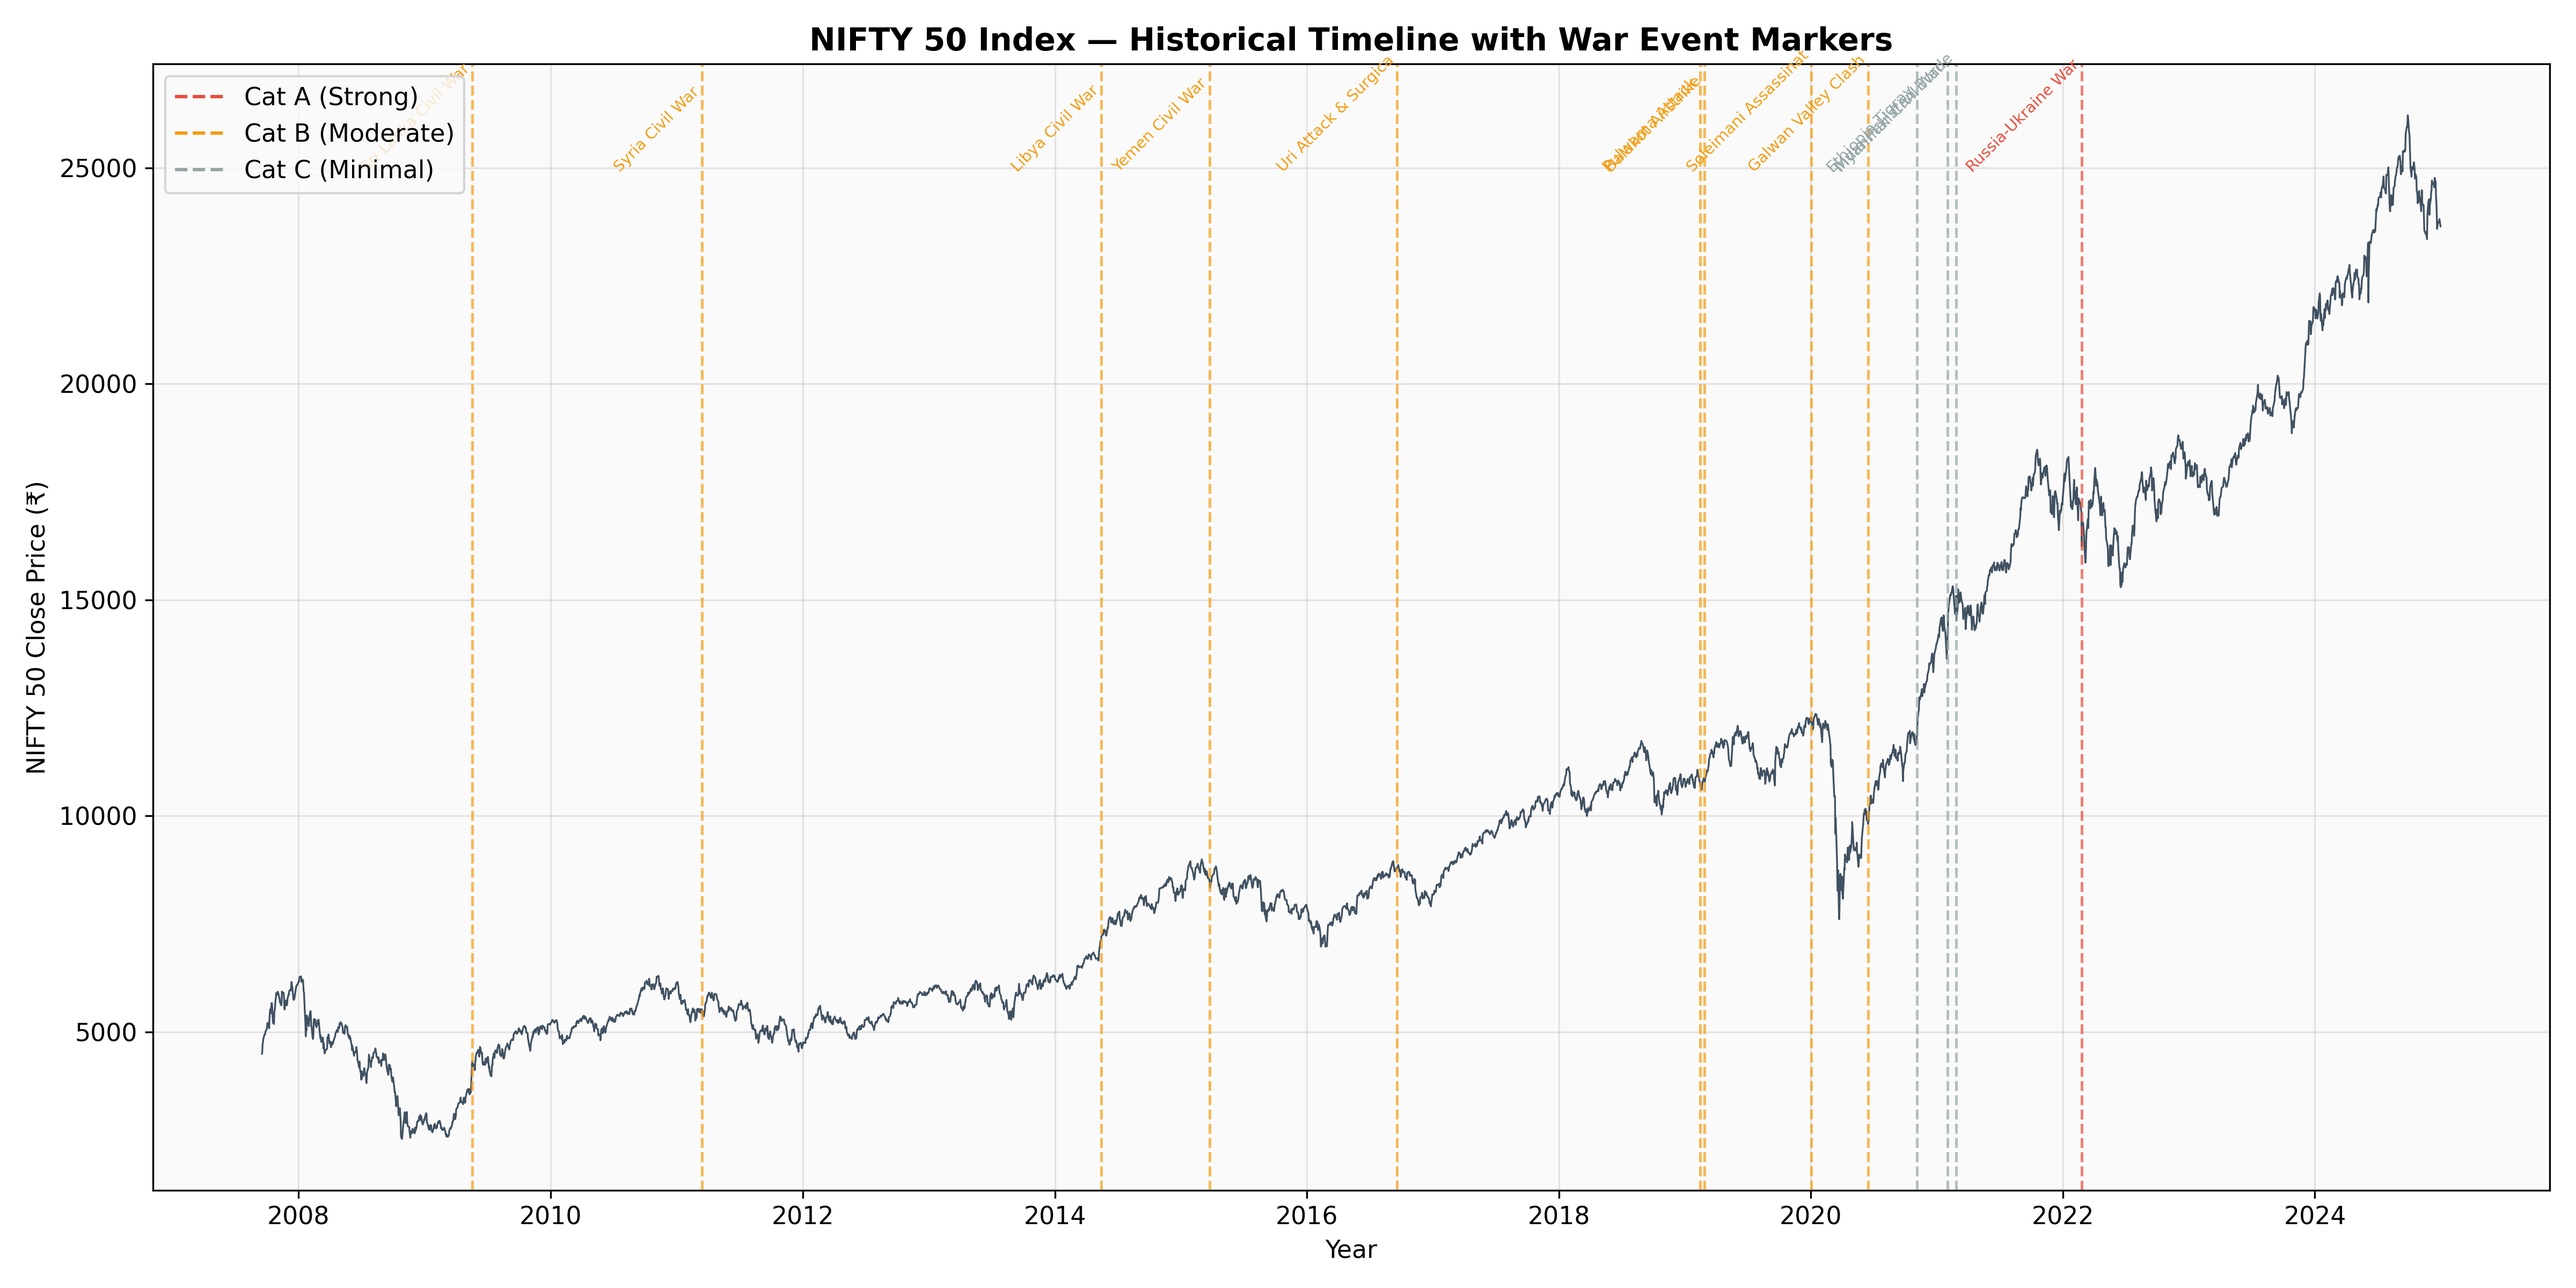
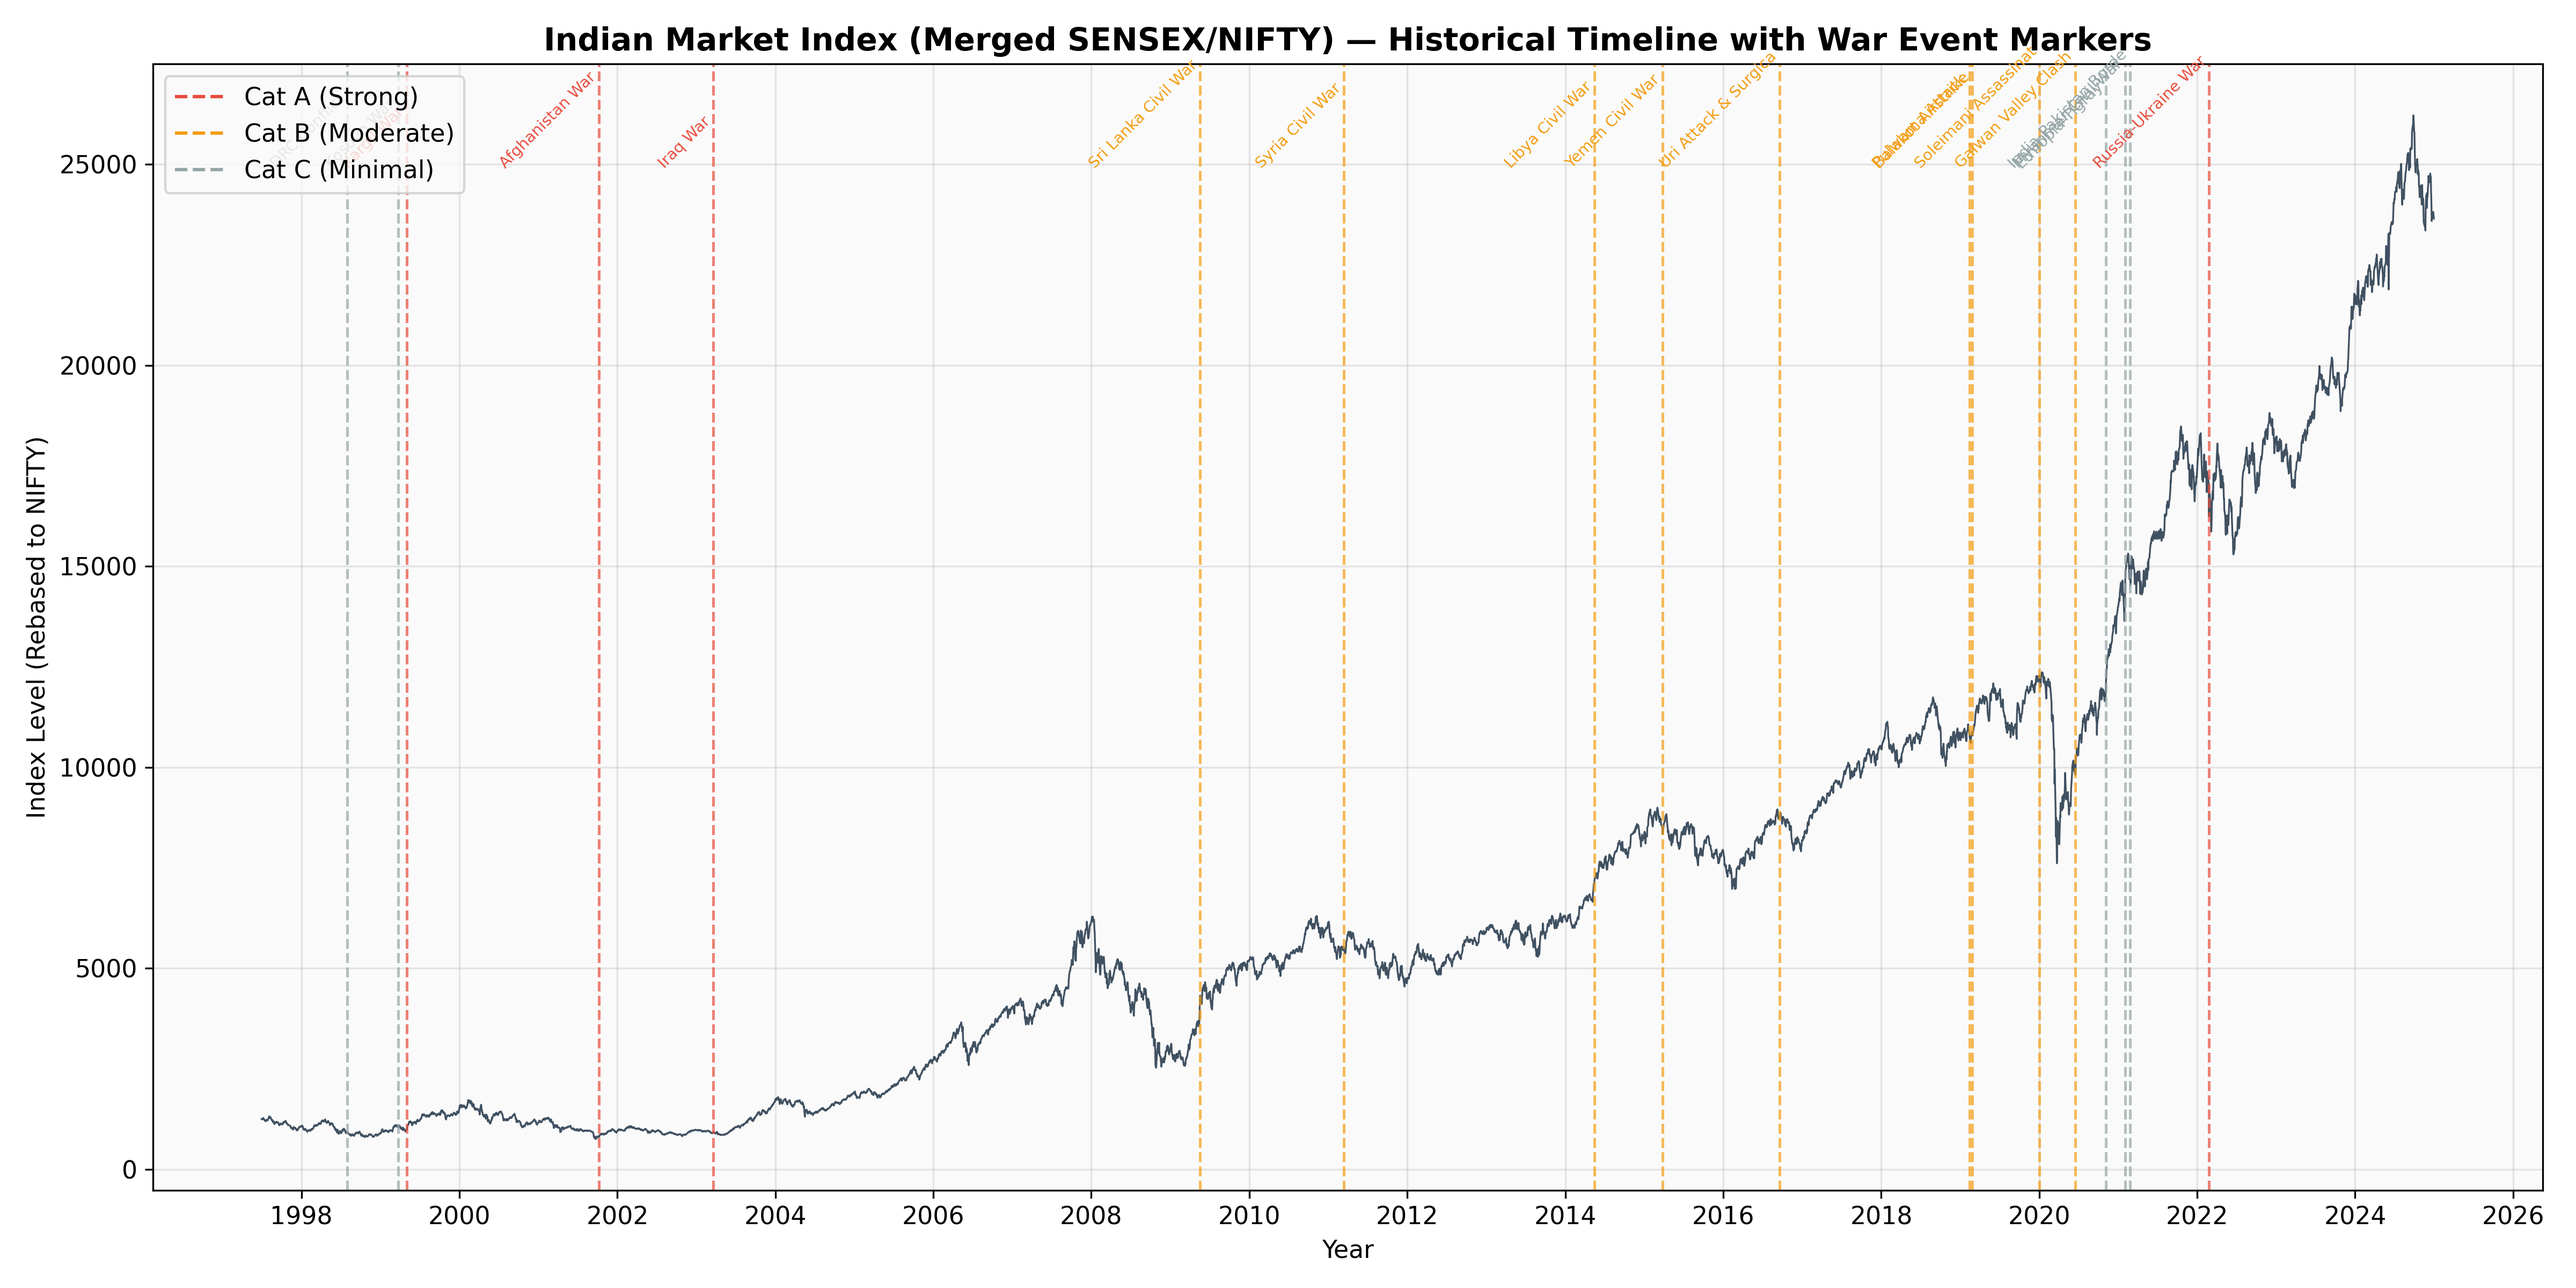
Restore NIFTY 50 study: updated timeline graph, remove roll number, ignore rules

diff --git a/README.md b/README.md
@@ -121,5 +121,5 @@ python Python_Code/09_graphs.py
 
 ## 👤 Author
 
-Vaibhav Jain (Roll No: 230697)  
-Financial Markets — Semester 6
+Vaibhav Jain  
+Financial Markets course project (Semester 6)
